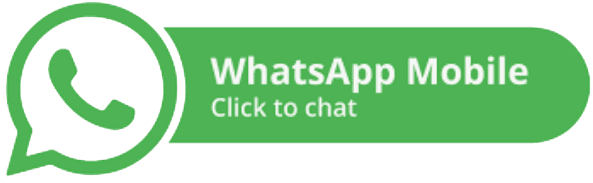
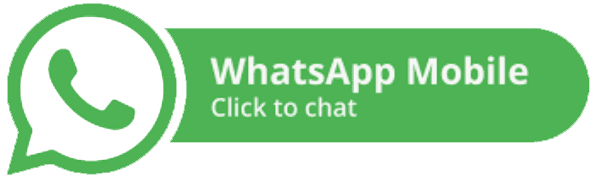
image transparency

diff --git a/index.html b/index.html
@@ -1223,7 +1223,7 @@
                                 target="_blank" rel="noopener noreferrer">Association of Dunkirk Little Ships</a> or <a
                                 href="https://www.nationalhistoricships.org.uk/register/2233/gerfalcon" target="_blank"
                                 rel="noopener noreferrer">National Historic Ships</a>.</p>
-                                <p><a href="https://wa.me/447946325160" target="_blank"><img src="images/wa.png"></a></p>
+                                <p><a href="https://wa.me/447946325160" target="_blank"><img src="images/wa.png" width="150px"></a></p>
                     </div>
                 </div>
             </div>
